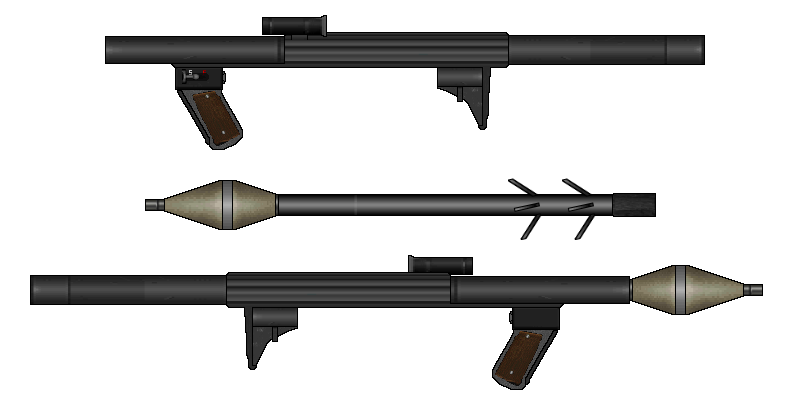
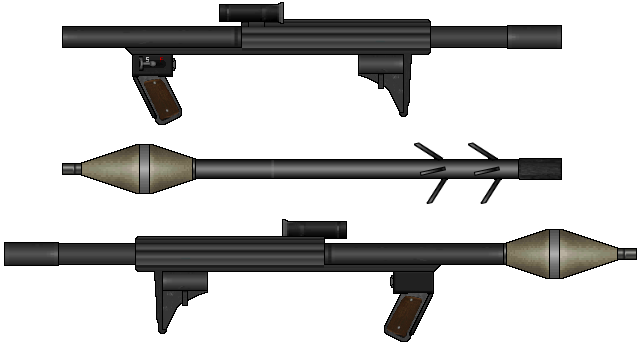
Add files via upload

Changed region(s): [[0.0938, 0.0, 0.9062, 0.6111], [0.0, 0.6111, 1.0, 0.9778]]

diff --git a/WIM_PR_Arms.html b/WIM_PR_Arms.html
@@ -500,11 +500,11 @@ function includeHTML() {
 </TR>
 <TR>
 	<TD style="width:175px; color:#EFEFEF; font-size:16px; font-family:Courier;"><b>BARREL LENGTH:</TD>
-	<TD style="width:450px; color:#F0F0F0; font-size:14px; font-family:Courier;">1.2m/47.25 inches</TD>
+	<TD style="width:450px; color:#F0F0F0; font-size:14px; font-family:Courier;">1m/39.37 inches</TD>
 </TR>
 <TR>
 	<TD style="width:175px; color:#EFEFEF; font-size:16px; font-family:Courier;"><b>OVERALL LENGTH:</TD>
-	<TD style="width:450px; color:#F0F0F0; font-size:14px; font-family:Courier;">1.2m/47.25 inches</TD>
+	<TD style="width:450px; color:#F0F0F0; font-size:14px; font-family:Courier;">1m/39.37 inches</TD>
 </TR>
 <TR>
 	<TD style="width:175px; color:#EFEFEF; font-size:16px; font-family:Courier;"><b>OVERALL HEIGHT:</TD>
@@ -517,7 +517,7 @@ function includeHTML() {
 <TR>
 </TR>
 <TR>
-	<TD width=1325 colspan=6><center><table width=1310><TR><TD>The Luchair LRAC-100 is a purpose-made anti-tank weapon system replacing the earlier Armbrust, which was essentially a Walker with extended range (90m). While the Armbrust was supposed to be updated, the Luchair company approached the Prench army with this radically improved weapon system. The dual fin sets on the rear, canted to an angle, impart a very precise spin to the projectile, increasing its mechanical precision. The 100mm warhead is purely anti-tank, and travels at 200 meters-per-second, after a preliminary launching charge 'pops' the rocket from the launcher out to 10 meters, increasing safety and eliminating most of the backblast. When the launching charge fires, the rocket ejects from the tube, and the fins instantly pop out and impart spin (already started inside the barrel by the fin's discarding sabot sheath). The main charge then fires, and the rocket reaches its point-of-aim in exactly one second, with a precision tighter than 6 inches (150mm) from center-of-aim. The 100mm rocket can penetrate 180mm/7.1 inches of hardened armor plate.</TD></TR></Table></TD>
+	<TD width=1325 colspan=6><center><table width=1310><TR><TD>The Luchair LRAC-100 is a purpose-made anti-tank weapon system replacing the earlier Armbrust, which was essentially a Walker with extended range (90m). While the Armbrust was supposed to be updated, the Luchair company approached the Prench army with this radically improved weapon system. The dual fin sets on the rear, canted to an angle, impart a very precise spin to the projectile, increasing its mechanical precision. The 100mm warhead is purely anti-tank, and travels at 200 meters-per-second, after a preliminary launching charge 'pops' the rocket from the launcher out to 10 meters, increasing safety and eliminating most of the backblast. When the launching charge fires, the rocket ejects from the tube, and the fins instantly pop out and impart spin (already started inside the barrel by the fin's discarding sabot sheath). The main charge then fires, and the rocket reaches its point-of-aim in exactly one second, with a precision tighter than 6 inches (150mm) from center-of-aim. The 100mm rocket can penetrate 180mm/7.1 inches of hardened armor plate. This is enough to take down a Tirek "Heavy Tank" from the sides or rear.</TD></TR></Table></TD>
 </TR>
 </Table>
 
